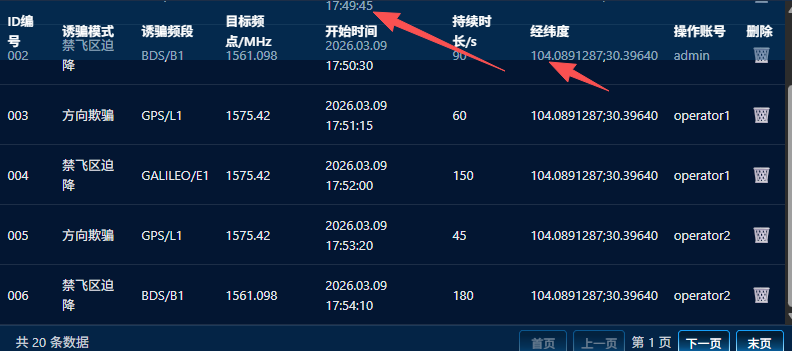
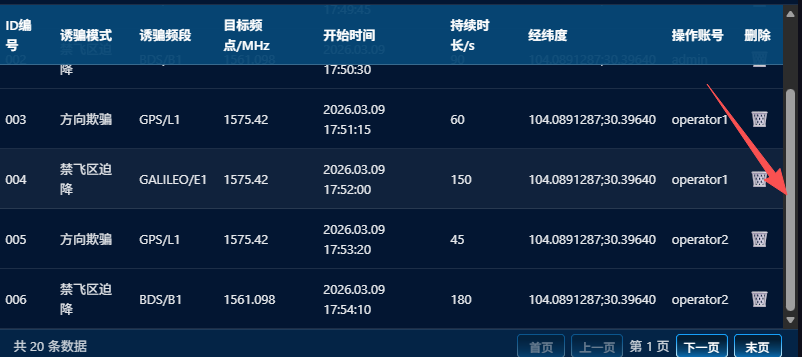
fix: 隐藏滚动条样式从scoped移至全局style块，确保伪元素选择器生效

diff --git a/frontend/src/views/DeceptionRecords.vue b/frontend/src/views/DeceptionRecords.vue
@@ -293,13 +293,20 @@ const handleDelete = (id: string) => {
   flex: 1;
   overflow: auto;
   background: transparent;
+  scrollbar-width: none; /* Firefox */
+  -ms-overflow-style: none; /* IE/Edge */
 }
+</style>
 
+<style>
+/* 全局样式：隐藏滚动条（scoped 下伪元素选择器可能失效） */
 .table-area::-webkit-scrollbar {
-  width: 0;
-  display: none;
+  width: 0 !important;
+  display: none !important;
 }
+</style>
 
+<style scoped>
 .records-table {
   width: 100%;
   border-collapse: separate;

diff --git a/frontend/src/views/DetectionRecords.vue b/frontend/src/views/DetectionRecords.vue
@@ -293,13 +293,20 @@ const handleDelete = (id: string) => {
   flex: 1;
   overflow: auto;
   background: transparent;
+  scrollbar-width: none; /* Firefox */
+  -ms-overflow-style: none; /* IE/Edge */
 }
+</style>
 
+<style>
+/* 全局样式：隐藏滚动条（scoped 下伪元素选择器可能失效） */
 .table-area::-webkit-scrollbar {
-  width: 0;
-  display: none;
+  width: 0 !important;
+  display: none !important;
 }
+</style>
 
+<style scoped>
 .records-table {
   width: 100%;
   border-collapse: separate;

diff --git a/frontend/src/views/InterferenceRecords.vue b/frontend/src/views/InterferenceRecords.vue
@@ -292,13 +292,20 @@ const handleDelete = (id: string) => {
   flex: 1;
   overflow: auto;
   background: transparent;
+  scrollbar-width: none; /* Firefox */
+  -ms-overflow-style: none; /* IE/Edge */
 }
+</style>
 
+<style>
+/* 全局样式：隐藏滚动条（scoped 下伪元素选择器可能失效） */
 .table-area::-webkit-scrollbar {
-  width: 0;
-  display: none;
+  width: 0 !important;
+  display: none !important;
 }
+</style>
 
+<style scoped>
 .records-table {
   width: 100%;
   border-collapse: separate;
